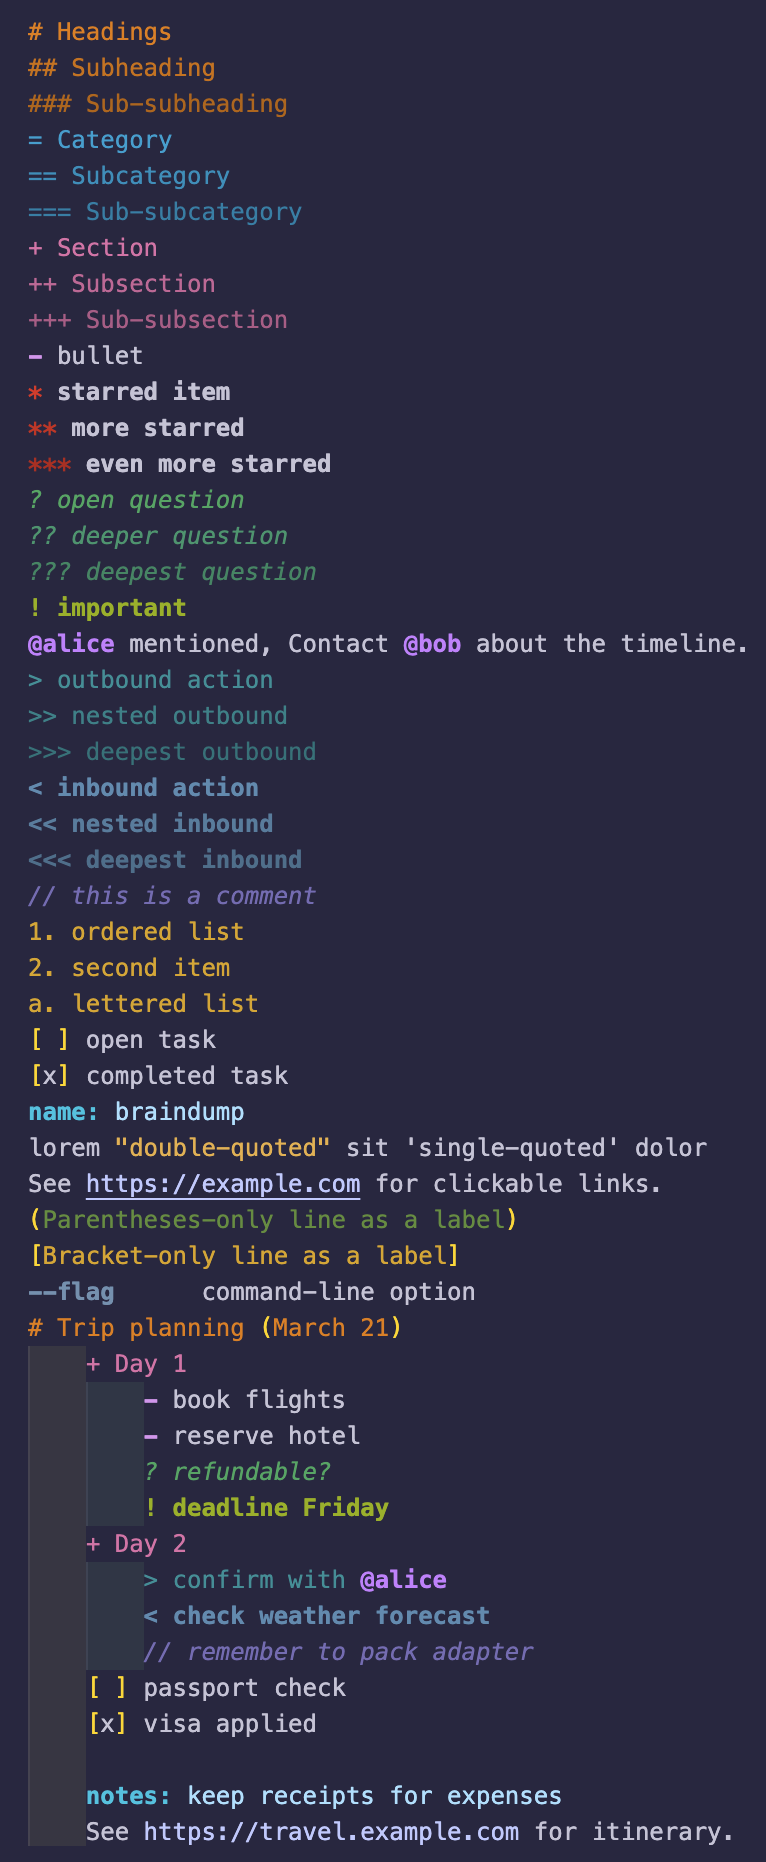
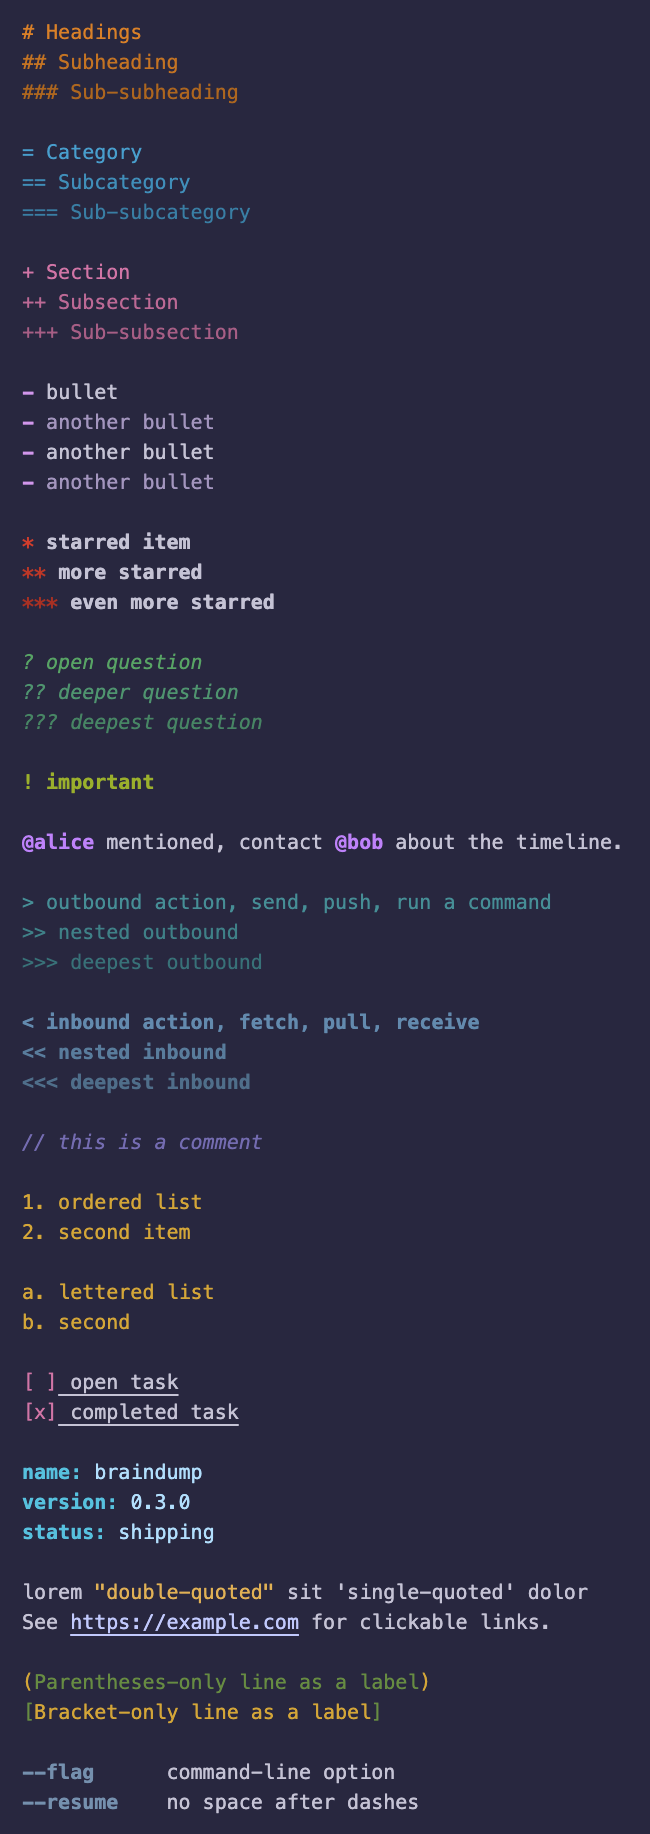
docs: add note.png screenshot, refresh syntax.png, fix task description
- Adds images/note.png — sample real-world note rendered in dark theme
- Refreshes images/syntax.png with updated rendering
- Fixes incorrect README claim that completed tasks are struck through;
  actual implementation per spec keeps body default text on both open
  and done tasks. Updated both the prose paragraph and the
  syntax-at-a-glance table row.

diff --git a/README.md b/README.md
@@ -12,6 +12,8 @@ There's no preview mode. No compile step. What you type is what you read.
 
 Open a `.bd` file. Start typing. Your notes get color-coded as you go.
 
+![Braindump sample note in a dark theme](https://raw.githubusercontent.com/sweetlemonai/braindump-vscode/main/images/note.png)
+
 ## Why another note format?
 
 Markdown was designed for documents you publish. Braindump is designed for notes you _keep_: the running thoughts, todo lists, meeting scribbles, half-formed ideas, and project plans you write for yourself.
@@ -92,7 +94,7 @@ Two arrows for two directions. Use `>` when the line is something you're sending
 [x] completed task
 ```
 
-Click the checkbox to toggle, or use `Cmd+Shift+Enter` (Mac) / `Ctrl+Shift+Enter` (Windows/Linux) on the line. Completed tasks get struck through automatically.
+Click the checkbox to toggle, or use `Cmd+Shift+Enter` (Mac) / `Ctrl+Shift+Enter` (Windows/Linux) on the line. Open and completed tasks look the same except for the `x` itself — no strikethrough, no dimming.
 
 ### Inline tokens
 
@@ -130,7 +132,7 @@ Standalone bracket-lines are colored as labels. Inline parentheticals like "by t
 | `< back` `<<` `<<<`        | Back reference, three depths                  | Whole line                                           |
 | `- bullet` `--` `---`      | Bullet, three depths                          | Marker only                                          |
 | `* important` `**` `***`   | Priority, three depths                        | Red marker, bold body text                           |
-| `[ ]` `[x]`                | Open / completed task                         | Bracket colored, body strikethrough when done        |
+| `[ ]` `[x]`                | Open / completed task                         | Bracket trio colored, body always default text       |
 | `key: value`               | Key/value pair                                | Key colored; value colored in light, default in dark |
 | `(line)` `[line]` `{line}` | Bracket / brace lines                         | Whole line, distinct char and content colors         |
 | `@mention` / `@ mention`   | Mention                                       | Token only                                           |
